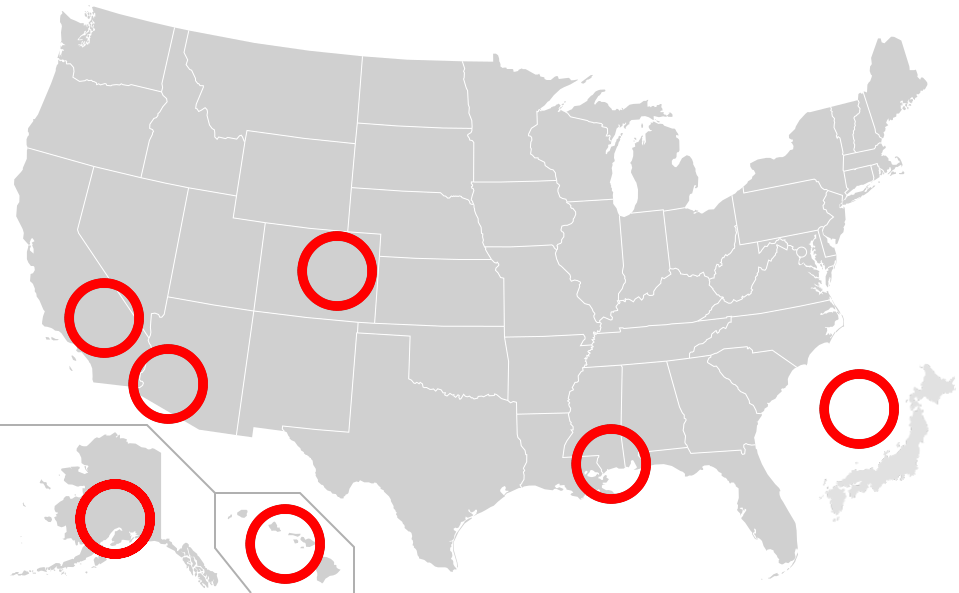
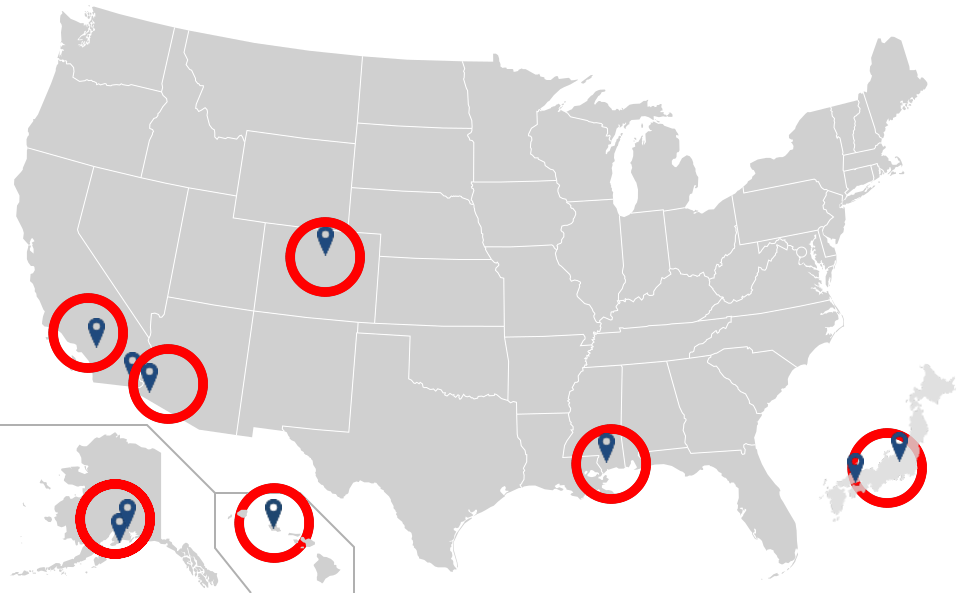
Quick update Wed 11/19/2025 21:38:34.96

diff --git a/mytravels.html b/mytravels.html
@@ -28,18 +28,18 @@
 
   <main>
     <h2>My Travels</h2>
-    <p>Pick a circle on the map to see the photos I took there.</p>
+    <p>Pick a <span id="redcircle">circle</span> on the map to see some photos I took in that state!</p>
 
     <img src="images/us-map.png" alt="Map of the United States + Japan" usemap="#statemap" class="usmap" width="959" height="593">
 
     <map name="statemap">
-      <area shape="circle" coords="103,317,55" href="#" alt="California" title="California" data-overlay-id="overlay-california">
-      <area shape="circle" coords="166,382,55" href="#" alt="Arizona" title="Arizona"data-overlay-id="overlay-arizona">
-      <area shape="circle" coords="337,268,55" href="#" alt="Colorado" title="Colorado"data-overlay-id="overlay-colorado">
-      <area shape="circle" coords="115,517,55" href="#" alt="Alaska" title="Alaska" data-overlay-id="overlay-alaska">
-      <area shape="circle" coords="285,542,55" href="#" alt="Hawaii" title="Hawaii" data-overlay-id="overlay-hawaii">
+      <area shape="circle" coords="87,330,55" href="#" alt="California" title="California" data-overlay-id="overlay-california">
+      <area shape="circle" coords="168,380,55" href="#" alt="Arizona" title="Arizona"data-overlay-id="overlay-arizona">
+      <area shape="circle" coords="324,254,55" href="#" alt="Colorado" title="Colorado"data-overlay-id="overlay-colorado">
+      <area shape="circle" coords="115,515,55" href="#" alt="Alaska" title="Alaska" data-overlay-id="overlay-alaska">
+      <area shape="circle" coords="273,520,55" href="#" alt="Hawaii" title="Hawaii" data-overlay-id="overlay-hawaii">
       <area shape="circle" coords="610,461,55" href="#" alt="Mississippi" title="Mississippi" data-overlay-id="overlay-mississippi">
-      <area shape="circle" coords="859,408,55" href="#" alt="Japan" title="Japan" data-overlay-id="overlay-japan">
+      <area shape="circle" coords="887,465,55" href="#" alt="Japan" title="Japan" data-overlay-id="overlay-japan">
     </map>
 
     <div id="overlay-backdrop" class="overlay-backdrop hidden">

diff --git a/css/styles.css b/css/styles.css
@@ -56,6 +56,10 @@ h2 {
     margin: 16px auto;
 }
 
+#mytravelsparagraph{
+    color: rgb(159, 209, 209);
+}
+
 #mytravelslink {
     font-size: 18px;
     color: #759FBC;
@@ -149,6 +153,10 @@ main {
 
 /* My Travels page map and overlays*/
 /*-------------------------------------------------------*/
+#redcircle{
+    color: red;
+}
+
 .usmap {
     max-width: 100%;
     height: auto;
@@ -223,14 +231,15 @@ main {
 
 .close-overlay-button {
     margin-top: 1rem;
-    padding: 0.5rem 1rem;
+    padding: 0.8rem 2rem;
     cursor: pointer;
+    font-size: 20px;
+    font-weight: bold;
     background: #759FBC;
-    color: #111;
+    color: #000000;
     border: none;
     border-radius: 6px;
     cursor: pointer;
-    font-weight: bold;
 }
 
 /* Clips page */
@@ -272,7 +281,7 @@ main {
     width: 600px;
     max-width: 100%;
     aspect-ratio: 16 / 9;
-    box-shadow: 0 0 15px rgba(117, 159, 188, 0.4);
+    box-shadow: 0 0 15px rgba(0,0,0,0.6);
     border: 1px solid rgba(117, 159, 188, 0.3)
 }
 
@@ -289,7 +298,7 @@ main {
     margin: 2rem auto;
     border: 2px solid #759FBC;
     border-radius: 10px;
-    padding: 10px;
+    padding: 14px;
     display: flex;
     flex-direction: column;
     gap: 0.8rem;
@@ -311,13 +320,14 @@ main {
 
 #contact-form button {
     margin: auto;
-    padding: 0.7rem 1.5rem;
+    padding: 0.6rem 1.5rem;
     background: #759FBC;
-    color: #111;
+    font-size: 16px;
+    font-weight: bold;
+    color: #000000;
     border: none;
     border-radius: 6px;
     cursor: pointer;
-    font-weight: bold;
 }
 
 /* Feedback message after submitting contact form */

diff --git a/index.html b/index.html
@@ -44,7 +44,7 @@ Date: 09/23/2025
         <p>I've lived in a lot of different places and most recently spent four years as an interstate trucker.</p>
         <p>I eventually decided to return to pursuing IT for a more stable, healthier career that fits how my brain works.</p>
         </div>
-        <p style="color:rgb(159, 209, 209)">Outside of tech, I love hiking and exploring new places. If you're curious where I've been, check out my <a href="mytravels.html" id="mytravelslink">My Travels</a> page for photos from my trips!</p>
+        <p id="mytravelsparagraph">Outside of tech, I love hiking and exploring new places. If you're curious where I've been, check out my <a href="mytravels.html" id="mytravelslink">My Travels</a> page for photos from my trips!</p>
       </div>
       </section>
   </main>
